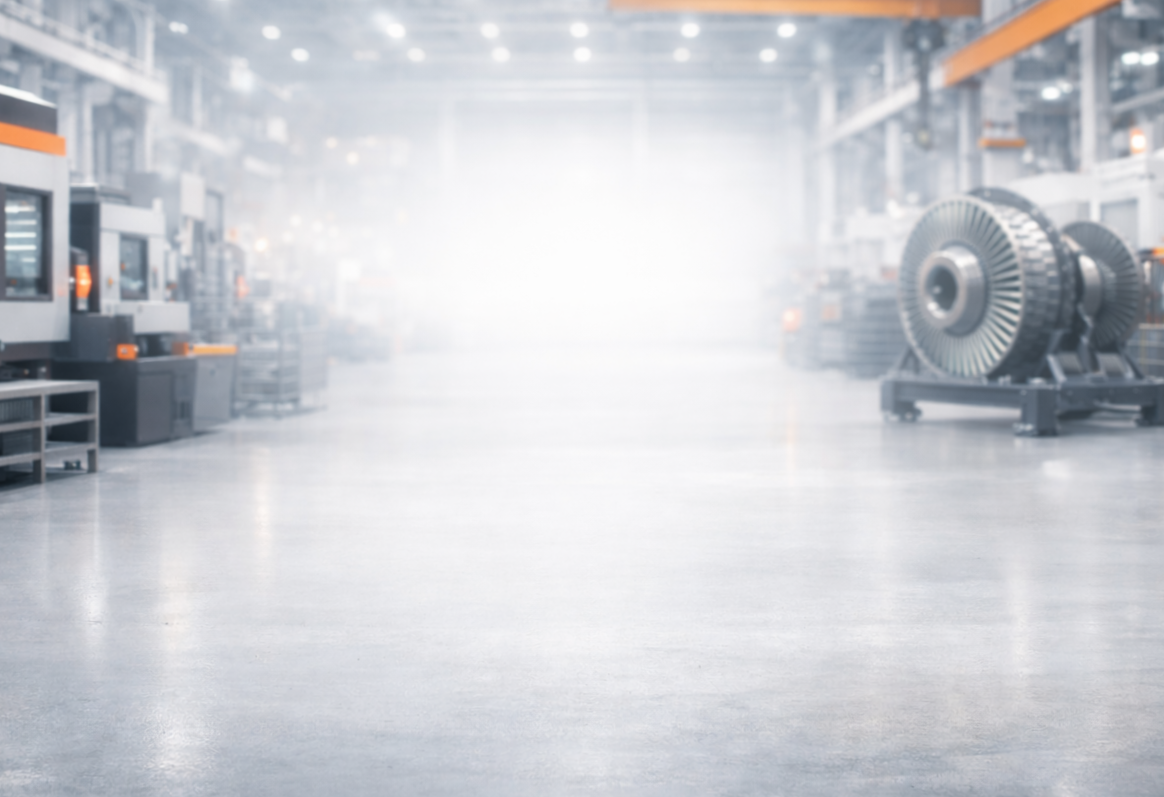
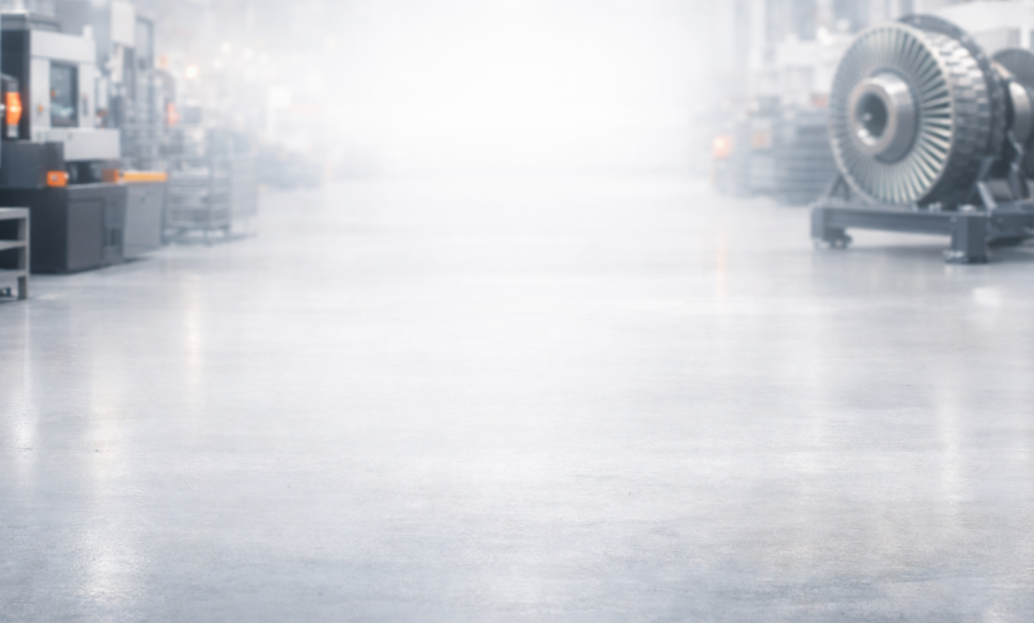
Achievement Counter Changes
Numbers in counter changed
Realignment to Counters

diff --git a/industrie-ltr/index.html b/industrie-ltr/index.html
@@ -909,18 +909,18 @@
                     </div>
                 </div>
                 <div class="row g-5">
-                    <div class="col-xl-3 col-lg-3 col-md-4 col-sm-6">
+                    <div class="col-xl-3 col-lg-4 col-md-6 col-sm-6">
                         <div class="rs-counter-item">
                             <div class="rs-counter-inner">
                                 <div class="rs-counter-number-wrapper">
-                                    <span class="rs-counter-number odometer" data-count="100">00</span>
+                                    <span class="rs-counter-number odometer" data-count="1000">00</span>
                                     <span class="prefix">+</span>
                                 </div>
                                 <span class="rs-counter-title">Successful Projects</span>
                             </div>
                         </div>
                     </div>
-                    <div class="col-xl-3 col-lg-3 col-md-4 col-sm-6">
+                    <div class="col-xl-3 col-lg-4 col-md-6 col-sm-6">
                         <div class="rs-counter-item">
                             <div class="rs-counter-inner">
                                 <div class="rs-counter-number-wrapper">
@@ -931,7 +931,7 @@
                             </div>
                         </div>
                     </div>
-                    <div class="col-xl-3 col-lg-3 col-md-4 col-sm-6">
+                    <div class="col-xl-3 col-lg-4 col-md-6 col-sm-6">
                         <div class="rs-counter-item">
                             <div class="rs-counter-inner">
                                 <div class="rs-counter-number-wrapper">
@@ -942,11 +942,11 @@
                             </div>
                         </div>
                     </div>
-                    <div class="col-xl-3 col-lg-3 col-md-4 col-sm-6">
+                    <div class="col-xl-3 col-lg-4 col-md-6 col-sm-6">
                         <div class="rs-counter-item">
                             <div class="rs-counter-inner">
                                 <div class="rs-counter-number-wrapper">
-                                    <span class="rs-counter-number odometer" data-count="4">00</span>
+                                    <span class="rs-counter-number odometer" data-count="10">00</span>
                                     <span class="prefix">+</span>
                                 </div>
                                 <span class="rs-counter-title">Countries Worldwide Operations</span>
@@ -2197,43 +2197,43 @@
         </section> -->
         <!-- blog area end -->
 
-<section class="youtube-carousel-section">
-        <div class="carousel-container">
-            <!-- Header -->
-            <div class="carousel-header">
-                 <h2 class="rs-section-title rs-split-text-enable split-in-fade" >Latest Videos from Spera Vacuum
-                            </h2>
-                
+        <section class="youtube-carousel-section">
+            <div class="carousel-container">
+                <!-- Header -->
+                <div class="carousel-header">
+                    <h2 class="rs-section-title rs-split-text-enable split-in-fade" >Latest Videos from Spera Vacuum
+                                </h2>
+                    
+                </div>
+
+                <!-- Loading state -->
+                <div class="carousel-loading" id="carouselLoading">
+                    Loading videos...
+                </div>
+
+                <!-- Carousel wrapper (hidden initially) -->
+                <div class="carousel-wrapper" id="carouselWrapper" style="display: none;">
+                    <!-- Navigation arrows -->
+                    <button class="carousel-nav prev" id="prevBtn" aria-label="Previous videos"></button>
+                    <button class="carousel-nav next" id="nextBtn" aria-label="Next videos"></button>
+
+                    <!-- Video track -->
+                    <div class="carousel-track" id="carouselTrack">
+                        <!-- Video cards will be inserted here by JavaScript -->
+                    </div>
+                </div>
             </div>
+        </section>
 
-            <!-- Loading state -->
-            <div class="carousel-loading" id="carouselLoading">
-                Loading videos...
-            </div>
-
-            <!-- Carousel wrapper (hidden initially) -->
-            <div class="carousel-wrapper" id="carouselWrapper" style="display: none;">
-                <!-- Navigation arrows -->
-                <button class="carousel-nav prev" id="prevBtn" aria-label="Previous videos"></button>
-                <button class="carousel-nav next" id="nextBtn" aria-label="Next videos"></button>
-
-                <!-- Video track -->
-                <div class="carousel-track" id="carouselTrack">
-                    <!-- Video cards will be inserted here by JavaScript -->
+        <!-- Video Modal/Lightbox -->
+        <div class="video-modal" id="videoModal">
+            <div class="modal-content">
+                <button class="modal-close" id="modalClose" aria-label="Close video"></button>
+                <div class="modal-video-container" id="modalVideoContainer">
+                    <!-- YouTube iframe will be inserted here -->
                 </div>
             </div>
         </div>
-    </section>
-
-    <!-- Video Modal/Lightbox -->
-    <div class="video-modal" id="videoModal">
-        <div class="modal-content">
-            <button class="modal-close" id="modalClose" aria-label="Close video"></button>
-            <div class="modal-video-container" id="modalVideoContainer">
-                <!-- YouTube iframe will be inserted here -->
-            </div>
-        </div>
-    </div>
 
 
     <!-- ================================================

diff --git a/industrie-ltr/about.html b/industrie-ltr/about.html
@@ -864,18 +864,18 @@
                     </div>
                 </div>
                 <div class="row g-5">
-                    <div class="col-xl-3 col-lg-3 col-md-4 col-sm-6">
+                    <div class="col-xl-3 col-lg-4 col-md-6 col-sm-6">
                         <div class="rs-counter-item">
                             <div class="rs-counter-inner">
                                 <div class="rs-counter-number-wrapper">
-                                    <span class="rs-counter-number odometer" data-count="100">00</span>
+                                    <span class="rs-counter-number odometer" data-count="1000">00</span>
                                     <span class="prefix">+</span>
                                 </div>
                                 <span class="rs-counter-title">Successful Projects</span>
                             </div>
                         </div>
                     </div>
-                    <div class="col-xl-3 col-lg-3 col-md-4 col-sm-6">
+                    <div class="col-xl-3 col-lg-4 col-md-6 col-sm-6">
                         <div class="rs-counter-item">
                             <div class="rs-counter-inner">
                                 <div class="rs-counter-number-wrapper">
@@ -886,7 +886,7 @@
                             </div>
                         </div>
                     </div>
-                    <div class="col-xl-3 col-lg-3 col-md-4 col-sm-6">
+                    <div class="col-xl-3 col-lg-4 col-md-6 col-sm-6">
                         <div class="rs-counter-item">
                             <div class="rs-counter-inner">
                                 <div class="rs-counter-number-wrapper">
@@ -897,11 +897,11 @@
                             </div>
                         </div>
                     </div>
-                    <div class="col-xl-3 col-lg-3 col-md-4 col-sm-6">
+                    <div class="col-xl-3 col-lg-4 col-md-6 col-sm-6">
                         <div class="rs-counter-item">
                             <div class="rs-counter-inner">
                                 <div class="rs-counter-number-wrapper">
-                                    <span class="rs-counter-number odometer" data-count="4">00</span>
+                                    <span class="rs-counter-number odometer" data-count="10">00</span>
                                     <span class="prefix">+</span>
                                 </div>
                                 <span class="rs-counter-title">Countries Worldwide Operations</span>

diff --git a/industrie-ltr/assets/css/main.css b/industrie-ltr/assets/css/main.css
@@ -18708,7 +18708,57 @@ html.lenis body {
   -webkit-animation: slide-down 5s ease-out;
   animation: slide-down 5s ease-out;
 }
+/* Fix counter number wrapping issue */
+.rs-counter-one .rs-counter-number-wrapper {
+    flex-wrap: nowrap;
+    white-space: nowrap;
+}
 
+.rs-counter-one .rs-counter-number,
+.rs-counter-one .prefix {
+    display: inline-block;
+    white-space: nowrap;
+}
+/* Fix counter number wrapping and overlap */
+.rs-counter-one .rs-counter-number-wrapper {
+    flex-wrap: nowrap;
+    white-space: nowrap;
+    overflow: visible; /* Allow content to be visible if it exceeds container */
+    justify-content: center; /* Center the numbers within their container */
+}
+
+.rs-counter-one .rs-counter-number,
+.rs-counter-one .prefix {
+    display: inline-block;
+    white-space: nowrap;
+}
+
+/* Ensure counter items don't overflow into each other */
+.rs-counter-item {
+    overflow: visible;
+}
+
+/* Add responsive font sizing to prevent overlap on smaller screens */
+@media only screen and (max-width: 991px) {
+    .rs-counter-one .rs-counter-number,
+    .rs-counter-one .prefix {
+        font-size: 60px;
+    }
+}
+
+@media only screen and (max-width: 767px) {
+    .rs-counter-one .rs-counter-number,
+    .rs-counter-one .prefix {
+        font-size: 50px;
+    }
+}
+
+@media only screen and (max-width: 575px) {
+    .rs-counter-one .rs-counter-number,
+    .rs-counter-one .prefix {
+        font-size: 45px;
+    }
+}
 /*----------------------------------------*/
 /*  services css
 /*----------------------------------------*/
